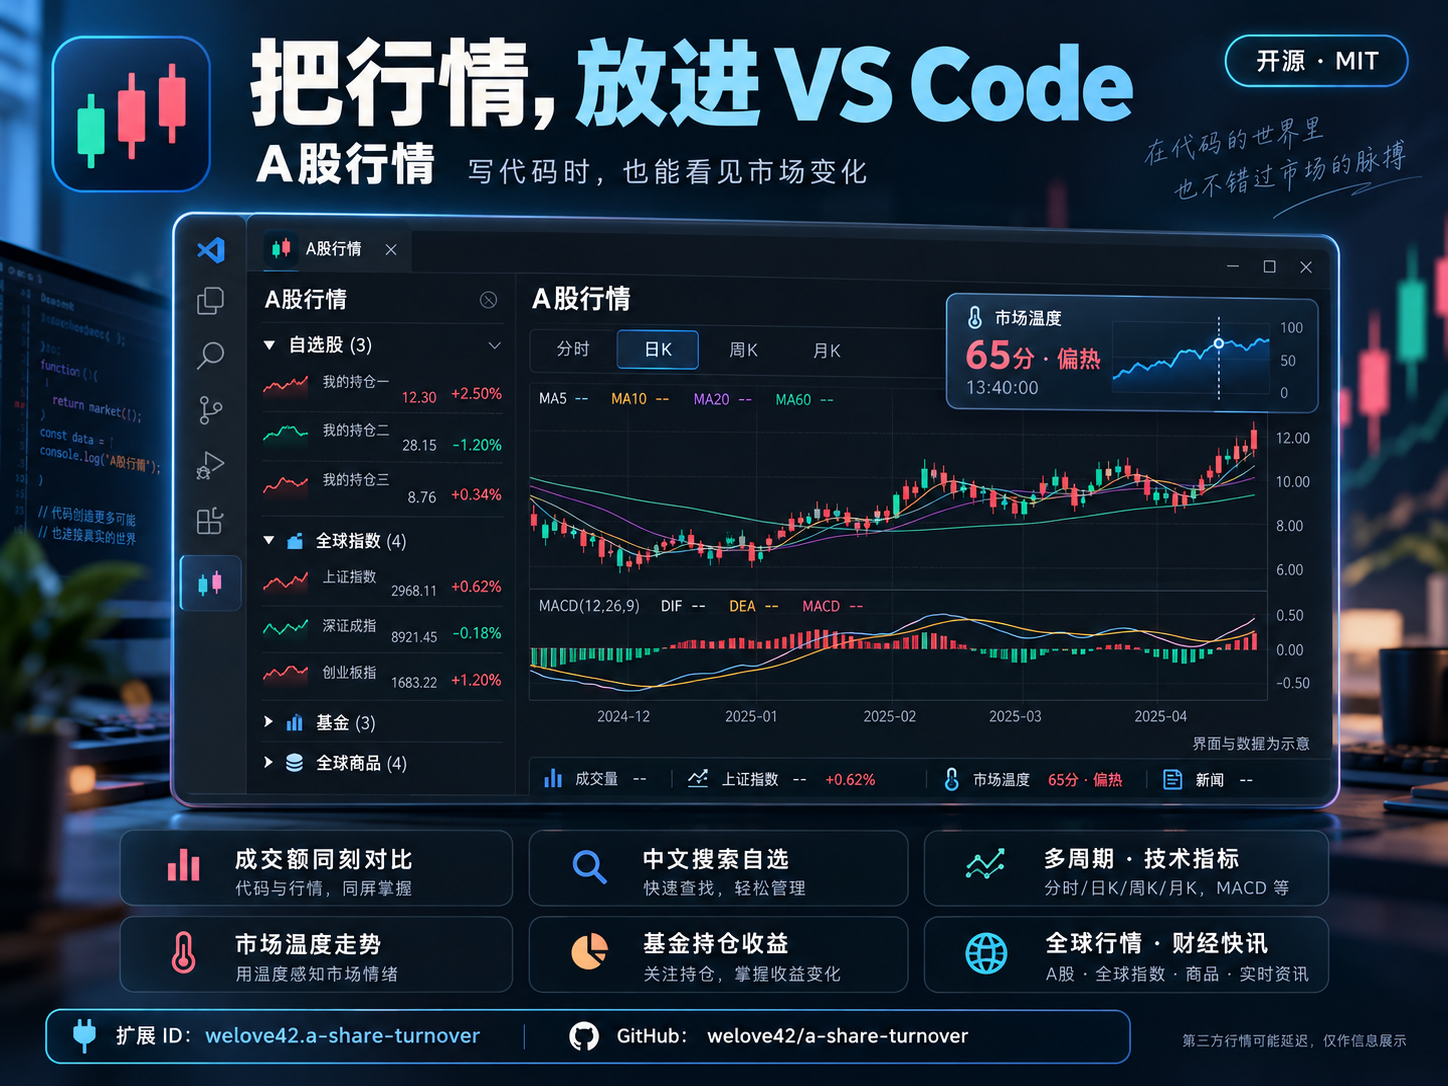
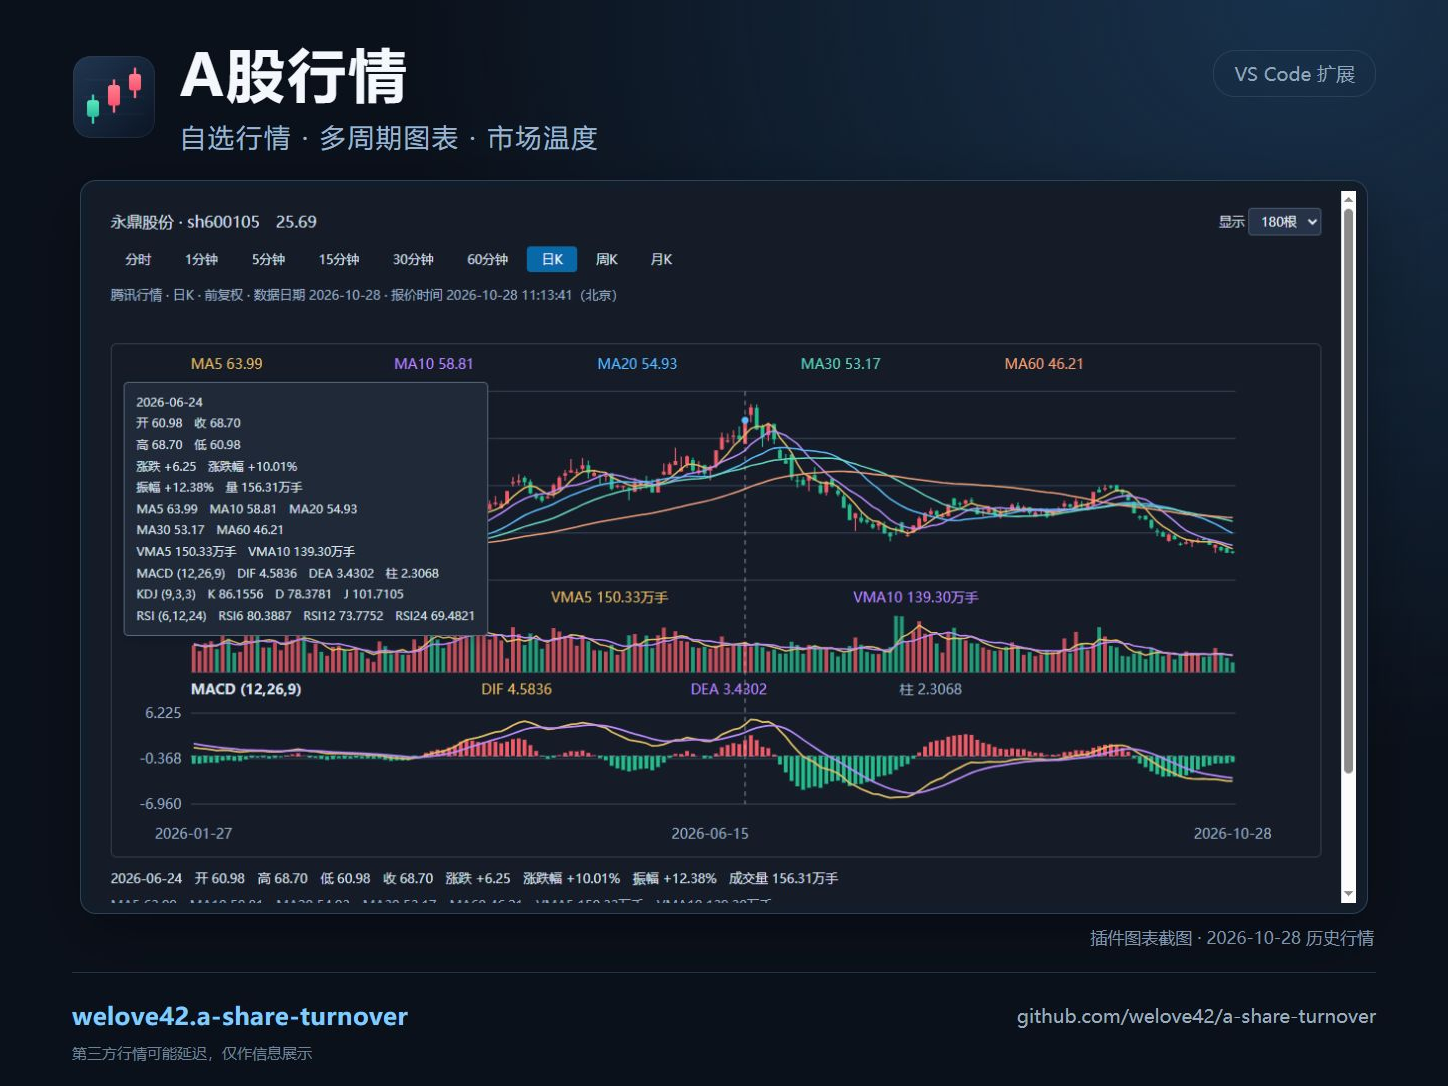
docs: 宣传图改用真实截图并精简文案

diff --git a/docs/poster-layout.html b/docs/poster-layout.html
@@ -1,0 +1,3 @@
+<!doctype html><html lang="zh-CN"><head><meta charset="utf-8"><title>A股行情 · 真实截图宣传图</title><style>
+*{box-sizing:border-box}html,body{margin:0;background:#0b111b;color:#f4f7fc;font-family:'Microsoft YaHei','Segoe UI',sans-serif}body{width:1448px;height:1086px}main{position:relative;width:1448px;height:1086px;padding:42px 72px 0;background:radial-gradient(ellipse at 90% 0%,#18314b 0,transparent 49%),#0b111b}header{display:flex;align-items:center;gap:24px;height:110px;margin-bottom:28px}header img{width:84px;height:84px}h1{font-size:58px;line-height:1.15;letter-spacing:3px;margin:0 0 12px;font-weight:700}.tagline{color:#9ab5cd;font-size:26px;letter-spacing:2px;margin:0}.badge{margin-left:auto;color:#91a6bb;border:1px solid #2b4055;border-radius:22px;padding:10px 20px;font-size:19px;align-self:flex-start;margin-top:8px}.screenshot{width:1288px;margin:auto;padding:10px;background:#131c29;border:1px solid #2c4258;border-radius:16px;box-shadow:0 18px 60px #0005}.screenshot img{display:block;width:1265px;height:auto;border-radius:6px}.caption{font-size:17px;color:#8195ab;text-align:right;margin:12px 2px 0}footer{display:flex;justify-content:space-between;align-items:center;margin-top:24px;border-top:1px solid #223348;padding-top:27px}.cta{font-size:24px;font-weight:600;color:#82cbff;letter-spacing:.4px}.github{font-size:19px;color:#9cacbd}.note{font-size:15px;color:#6f8398;margin:12px 0 0}
+</style></head><body><main><header><img src="../media/icon.png" alt="插件图标"><div><h1>A股行情</h1><p class="tagline">自选行情 · 多周期图表 · 市场温度</p></div><div class="badge">VS Code 扩展</div></header><section class="screenshot"><img src="../media/promotion/kline-preview.png" alt="插件真实K线截图，含均线、成交量、MACD和悬停指标"></section><p class="caption">插件图表截图 · 2026-10-28 历史行情</p><footer><div class="cta">welove42.a-share-turnover</div><div class="github">github.com/welove42/a-share-turnover</div></footer><p class="note">第三方行情可能延迟，仅作信息展示</p></main></body></html>

diff --git a/docs/POSTER.md b/docs/POSTER.md
@@ -1,0 +1,14 @@
+# 社区宣传图制作说明
+
+宣传图使用插件的真实图表截图直接排版，未使用生成模型重绘界面。
+
+- 原始截图：`media/promotion/kline-preview.png`，1265×712。
+- 截图内容：插件内置日K、MA均线、成交量及MACD，悬停查看历史指标。
+- 行情来源：2026年10月28日获取的腾讯历史行情；截图报价时间为北京时间11:13:41，悬停日期为2026年6月24日。
+- 宣传图：`media/promotion/community-poster.png`，1448×1086，4:3。
+- 制作方式：HTML/CSS排版，原始图表截图按原尺寸无损合成并导出PNG。截图未拉伸、未重画，也未修改其中的文字、图线或行情值。
+- 已核对宣传图中截图主体与原始PNG像素一致。
+
+文案仅保留产品名、三个功能关键词和扩展安装ID，附GitHub地址及历史行情日期。图中没有模拟自选列表或虚构的编辑器外壳。
+
+`poster-layout.html`保留排版源文件。修改文字时保留相对图片路径，通过本机HTTP服务打开并全页截图即可导出。市场介绍仍可使用根目录`README.marketplace.md`。

diff --git a/docs/COMMUNITY_POST.zh-CN.md b/docs/COMMUNITY_POST.zh-CN.md
@@ -17,7 +17,7 @@
 
 [扩展市场](https://marketplace.visualstudio.com/items?itemName=welove42.a-share-turnover) · [GitHub](https://github.com/welove42/a-share-turnover)
 
-![A股行情宣传海报，界面与数据为示意](../media/promotion/community-poster.png)
+![A股行情宣传海报，使用插件真实图表截图](../media/promotion/community-poster.png)
 
 项目采用MIT许可证，欢迎试用、提建议。第三方行情可能延迟；基金使用已公布净值，市场温度和提示只做信息展示，不预测未来涨跌。温度历史从功能启用后开始采集。
 

diff --git a/CHANGELOG.md b/CHANGELOG.md
@@ -2,7 +2,7 @@
 
 ## 1.11.1
 
-- 重写市场展示README，补充宣传海报、K线及市场温度截图，原详细说明保留为使用手册。
+- 重写市场展示README，补充使用真实图表截图的精简宣传海报、K线及市场温度截图，原详细说明保留为使用手册。
 - 增加社区长短版发布文案；本次仅更新展示资料，行情逻辑保持1.11.0。
 
 ## 1.11.0
